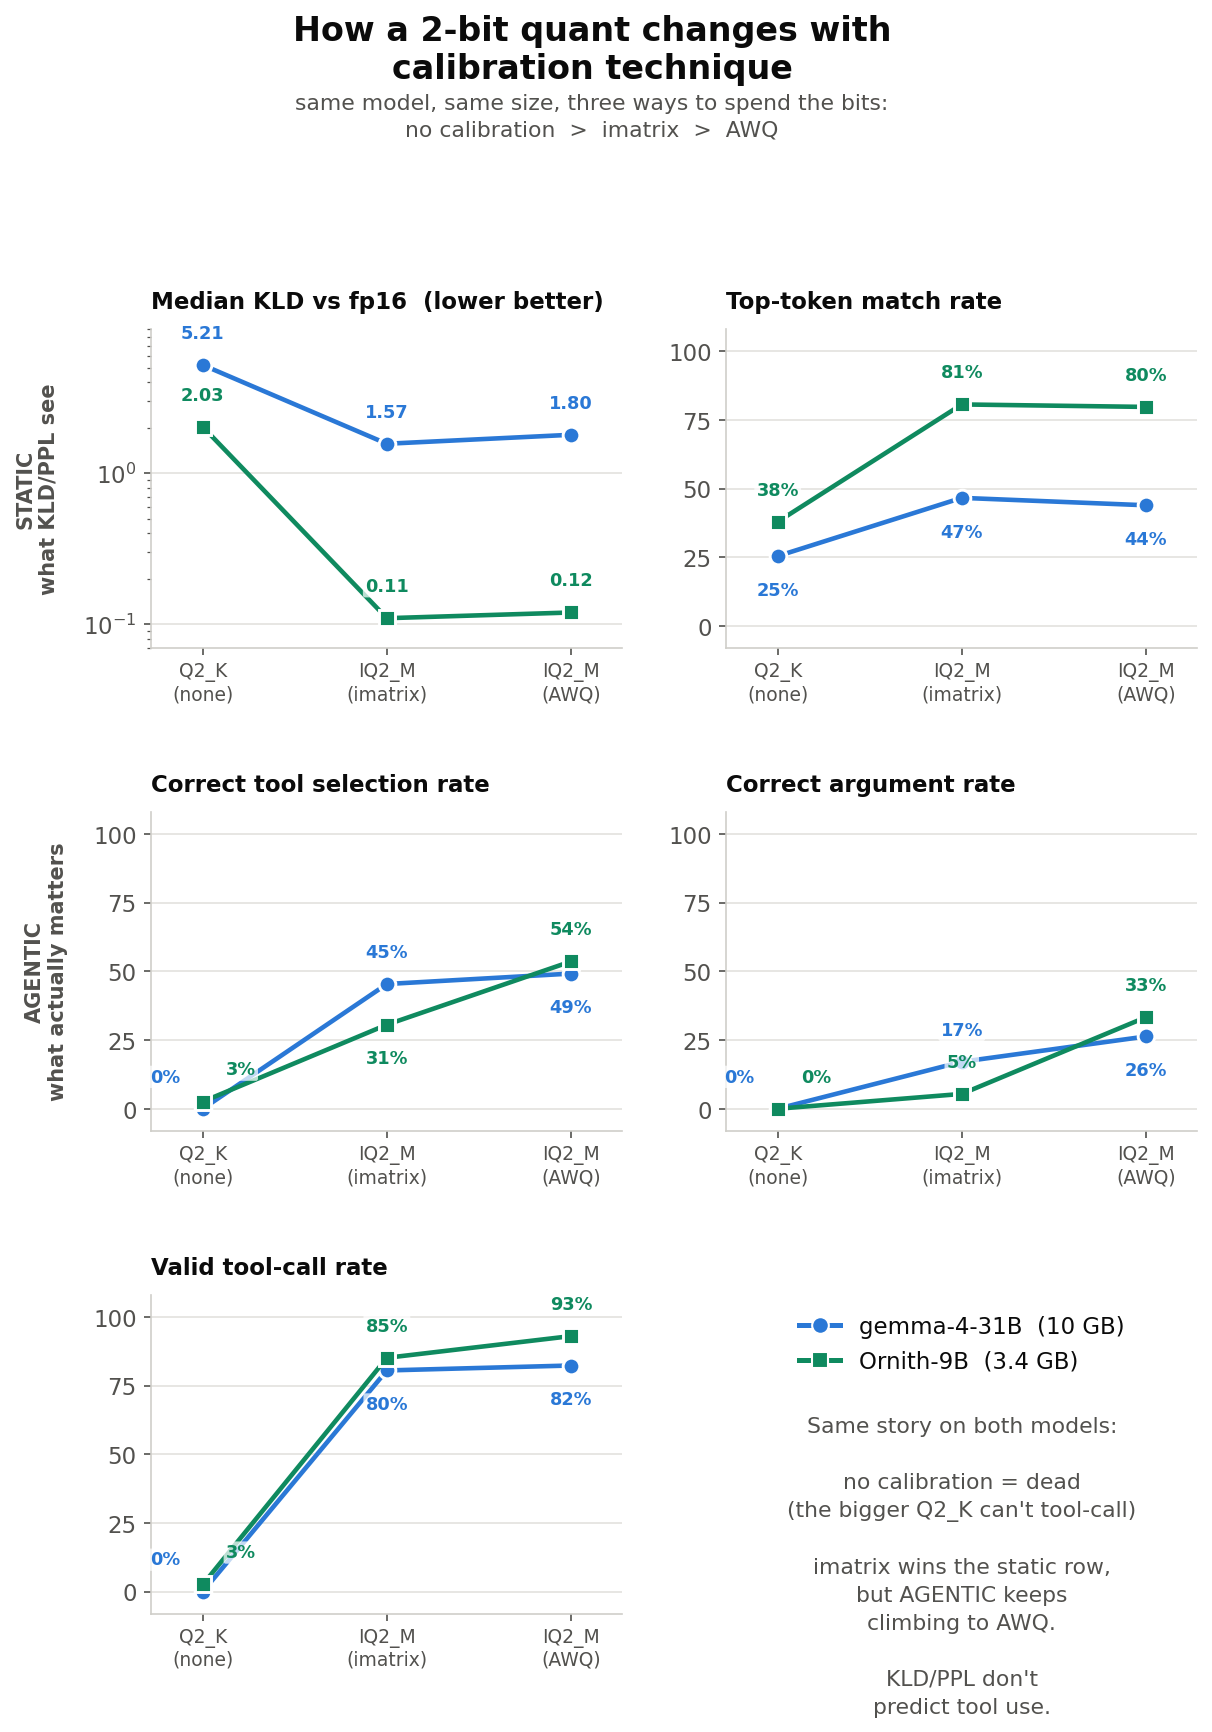
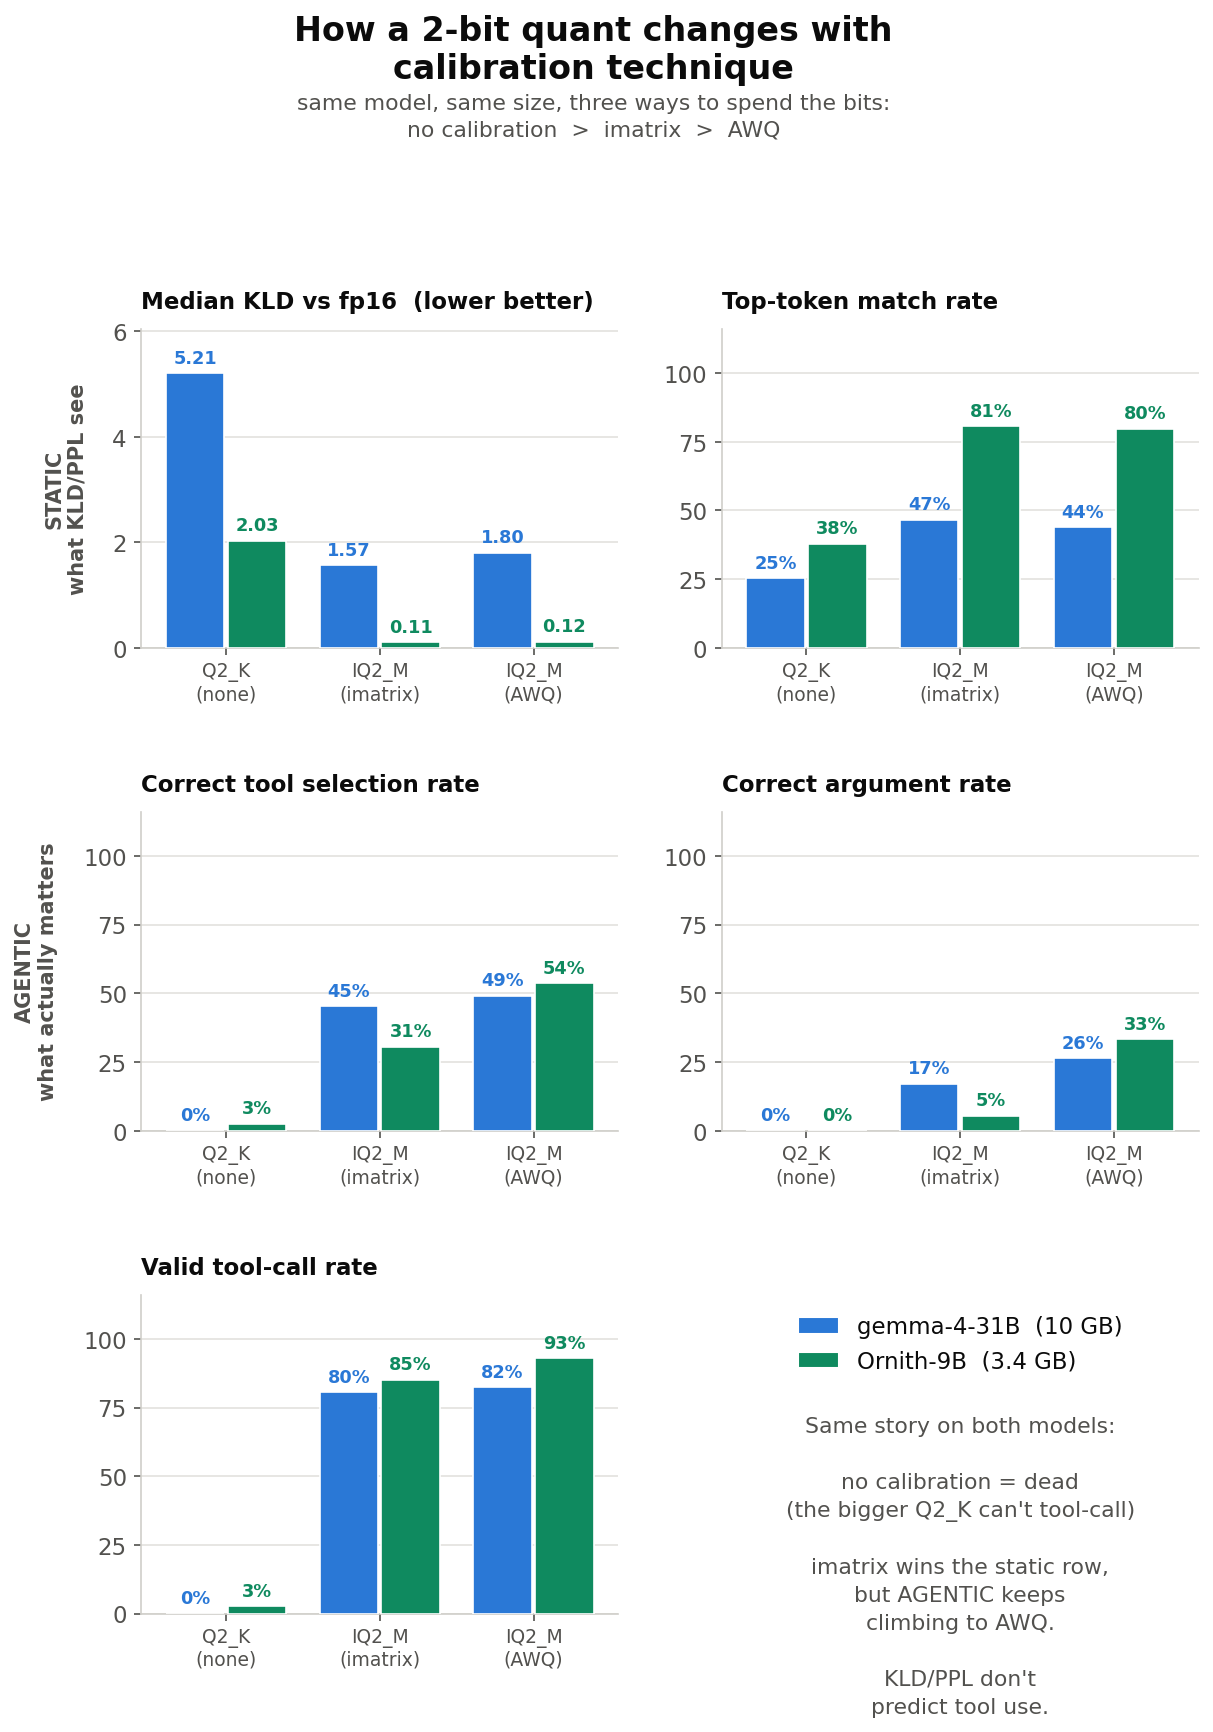
Convert calibration figure to grouped bar charts

diff --git a/scripts/plot_calibration_figure.py b/scripts/plot_calibration_figure.py
@@ -16,7 +16,7 @@ import matplotlib
 
 matplotlib.use("Agg")
 import matplotlib.pyplot as plt
-from matplotlib.lines import Line2D
+from matplotlib.patches import Patch
 
 OUT = Path(__file__).resolve().parents[1] / "reddit_kld_figure.png"
 
@@ -67,45 +67,33 @@ fig, axes = plt.subplots(3, 2, figsize=(8.4, 11.6), facecolor="white")
 for ax in axes.flat:
     ax.set_facecolor("white")
 
-_HALO = dict(boxstyle="round,pad=0.12", fc="white", ec="none", alpha=0.72)
+_BW = 0.38  # bar width; two models side by side with a small gap
 
 for row, col, key, title, is_pct, log, fmt in PANELS:
     ax = axes[row, col]
-    g, o = D["gemma"][key], D["ornith"][key]
-    for model, color, marker in (("gemma", GEMMA, "o"), ("ornith", ORNITH, "s")):
+    ymax = max(max(D["gemma"][key]), max(D["ornith"][key]))
+    for model, color, off in (("gemma", GEMMA, -_BW / 2 - 0.011),
+                              ("ornith", ORNITH, _BW / 2 + 0.011)):
         y = D[model][key]
-        ax.plot(XI, y, color=color, lw=2.2, marker=marker, ms=8,
-                mfc=color, mec="white", mew=1.4, zorder=3, clip_on=False)
-        for i, v in enumerate(y):
-            other = (o if model == "gemma" else g)[i]
-            near_floor = is_pct and v <= 6        # keep near-0 labels off the x-ticks
-            both_low = near_floor and other <= 6
-            if log or near_floor:
-                above = True
-            elif v != other:                      # side away from the other line
-                above = v > other
-            else:
-                above = model == "gemma"
-            dy, va = (11, "bottom") if above else (-12, "top")
-            dx = (-11 if model == "gemma" else 11) if both_low else 0
-            ha = "right" if (both_low and model == "gemma") else \
-                 "left" if both_low else "center"
-            ax.annotate(fmt.format(v), (XI[i], v), textcoords="offset points",
-                        xytext=(dx, dy), ha=ha, va=va, fontsize=8.5,
-                        color=color, fontweight="bold", zorder=5, bbox=_HALO)
+        xs = [xi + off for xi in XI]
+        ax.bar(xs, y, width=_BW, color=color, zorder=3,
+               edgecolor="white", linewidth=0.8)
+        for xi, v in zip(xs, y):
+            ax.annotate(fmt.format(v), (xi, v), textcoords="offset points",
+                        xytext=(0, 3), ha="center", va="bottom", fontsize=8.5,
+                        color=color, fontweight="bold", zorder=5)
     ax.set_title(title, fontsize=11, fontweight="bold", color=INK, pad=10, loc="left")
     ax.set_xticks(XI)
     ax.set_xticklabels(X, fontsize=9)
-    ax.set_xlim(-0.28, 2.28)
-    if log:
-        ax.set_yscale("log")
-        ax.set_ylim(0.07, 9)
+    ax.set_xlim(-0.55, 2.55)
     ax.grid(axis="y", color=GRID, lw=0.9, zorder=0)
     ax.set_axisbelow(True)
     ax.spines[["top", "right"]].set_visible(False)
     if is_pct:
-        ax.set_ylim(-8, 108)
+        ax.set_ylim(0, 116)
         ax.set_yticks([0, 25, 50, 75, 100])
+    else:  # KLD: linear (bars on a log axis mislead), headroom for the top label
+        ax.set_ylim(0, ymax * 1.16)
 
 # group captions on the left
 axes[0, 0].set_ylabel("STATIC\nwhat KLD/PPL see", fontsize=10, fontweight="bold",
@@ -117,10 +105,8 @@ axes[1, 0].set_ylabel("AGENTIC\nwhat actually matters", fontsize=10, fontweight=
 leg = axes[2, 1]
 leg.axis("off")
 handles = [
-    Line2D([0], [0], color=GEMMA, lw=2.4, marker="o", ms=8, mec="white",
-           label="gemma-4-31B  (10 GB)"),
-    Line2D([0], [0], color=ORNITH, lw=2.4, marker="s", ms=8, mec="white",
-           label="Ornith-9B  (3.4 GB)"),
+    Patch(facecolor=GEMMA, edgecolor="white", label="gemma-4-31B  (10 GB)"),
+    Patch(facecolor=ORNITH, edgecolor="white", label="Ornith-9B  (3.4 GB)"),
 ]
 leg.legend(handles=handles, loc="upper center", frameon=False, fontsize=11,
            handlelength=1.8, bbox_to_anchor=(0.5, 1.0))
